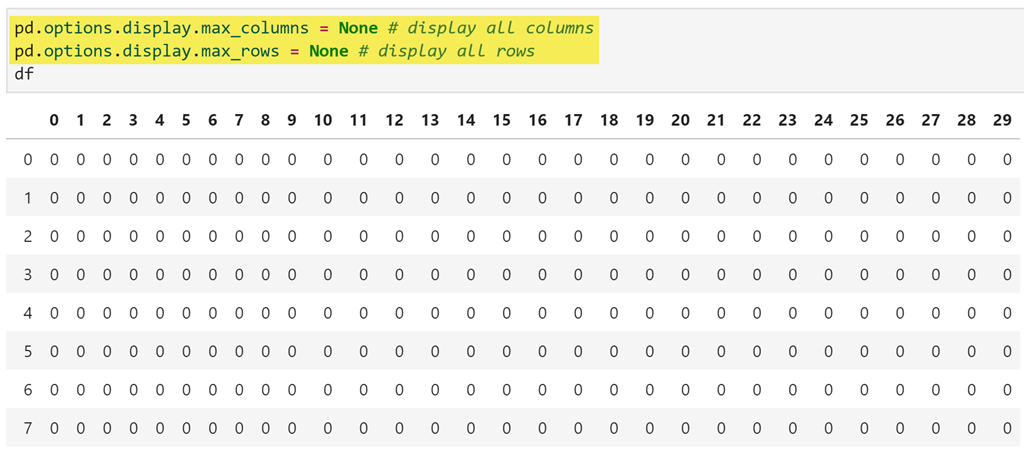
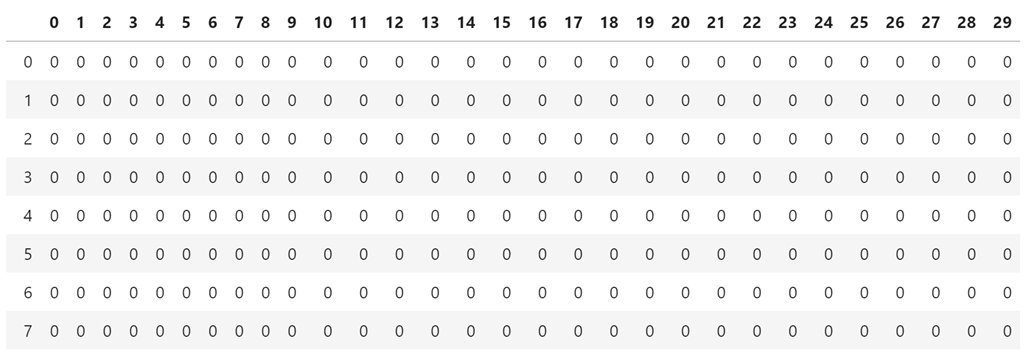
updates

diff --git a/_posts/2019-10-12-display-all-rows-columns-jupyer.md b/_posts/2019-10-12-display-all-rows-columns-jupyer.md
@@ -1,0 +1,35 @@
+---
+layout: post
+title:  "How to Display All Columns and Rows in a Jupyter Notebook"
+date:   2019-10-12 13:35:15 -0700
+categories: machine_learning
+tags: jupyter
+---
+
+In order to conserve space/memory, there is a limit to how many columns and rows that are displayed when viewing Pandas dataframes in Jupyter notebooks. However, when doing explatory data analysis (EDA), sometimes I want to view all columns or rows if it's not too big. To see what the defaults are (Pandas 0.25.1):
+
+```python
+pd.get_option("display.max_rows")
+pd.get_option("display.max_columns")
+```
+![jupyter default]({{ site.url }}/assets/posts_images/pd-default-rowcols.png){:width="500px"; margin: auto;}
+
+More details are explained in Pandas [Options and settings](https://pandas.pydata.org/pandas-docs/stable/user_guide/options.html).
+
+To show what it looks like, I created a sample dataframe populated with zeros using the numpy function [arange](https://docs.scipy.org/doc/numpy/reference/generated/numpy.arange.html):
+> Return evenly spaced values within a given interval.
+
+```python
+df = pd.DataFrame(0, index=np.arange(100), columns=np.arange(30))
+```
+
+![jupyter default]({{ site.url }}/assets/posts_images/jupyter-colrows-default.png){:width="500px"}
+
+To override these settings (Pandas 0.25.1):
+
+```python
+pd.options.display.max_columns = None # display all columns
+pd.options.display.max_rows = None # display all rows
+```
+
+![jupyter default]({{ site.url }}/assets/posts_images/jupyter-colrows-all.png){:width="500px"}
